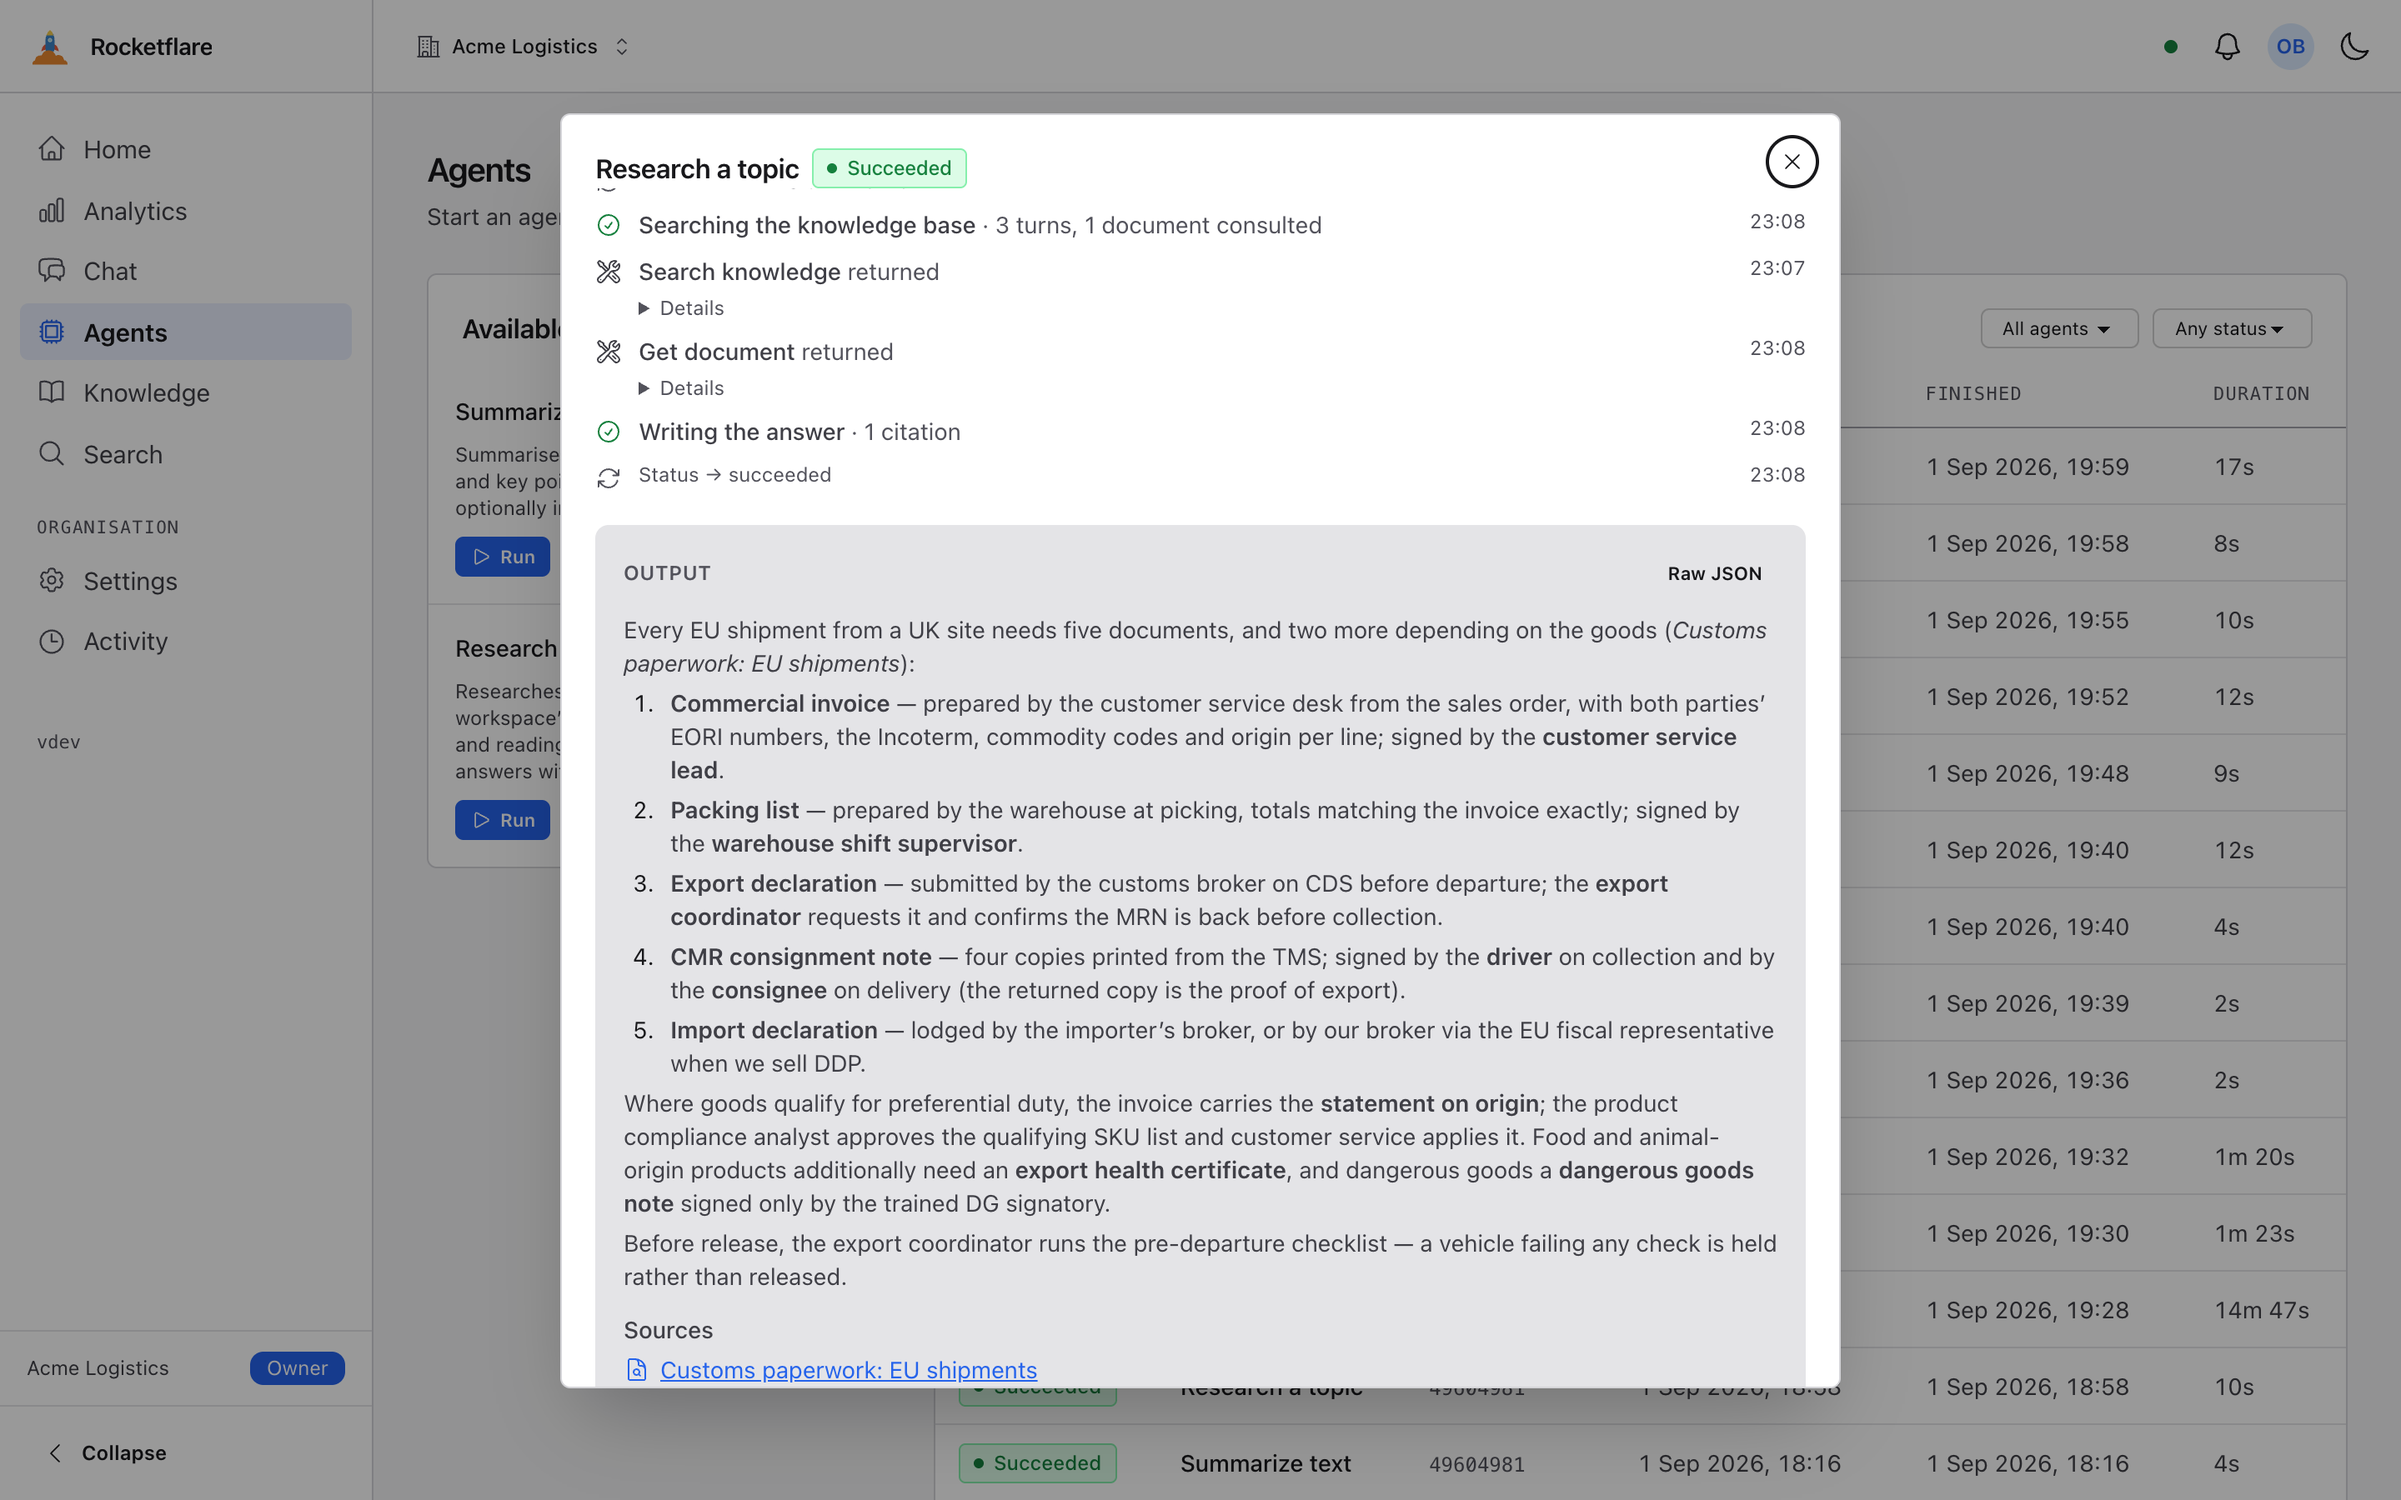
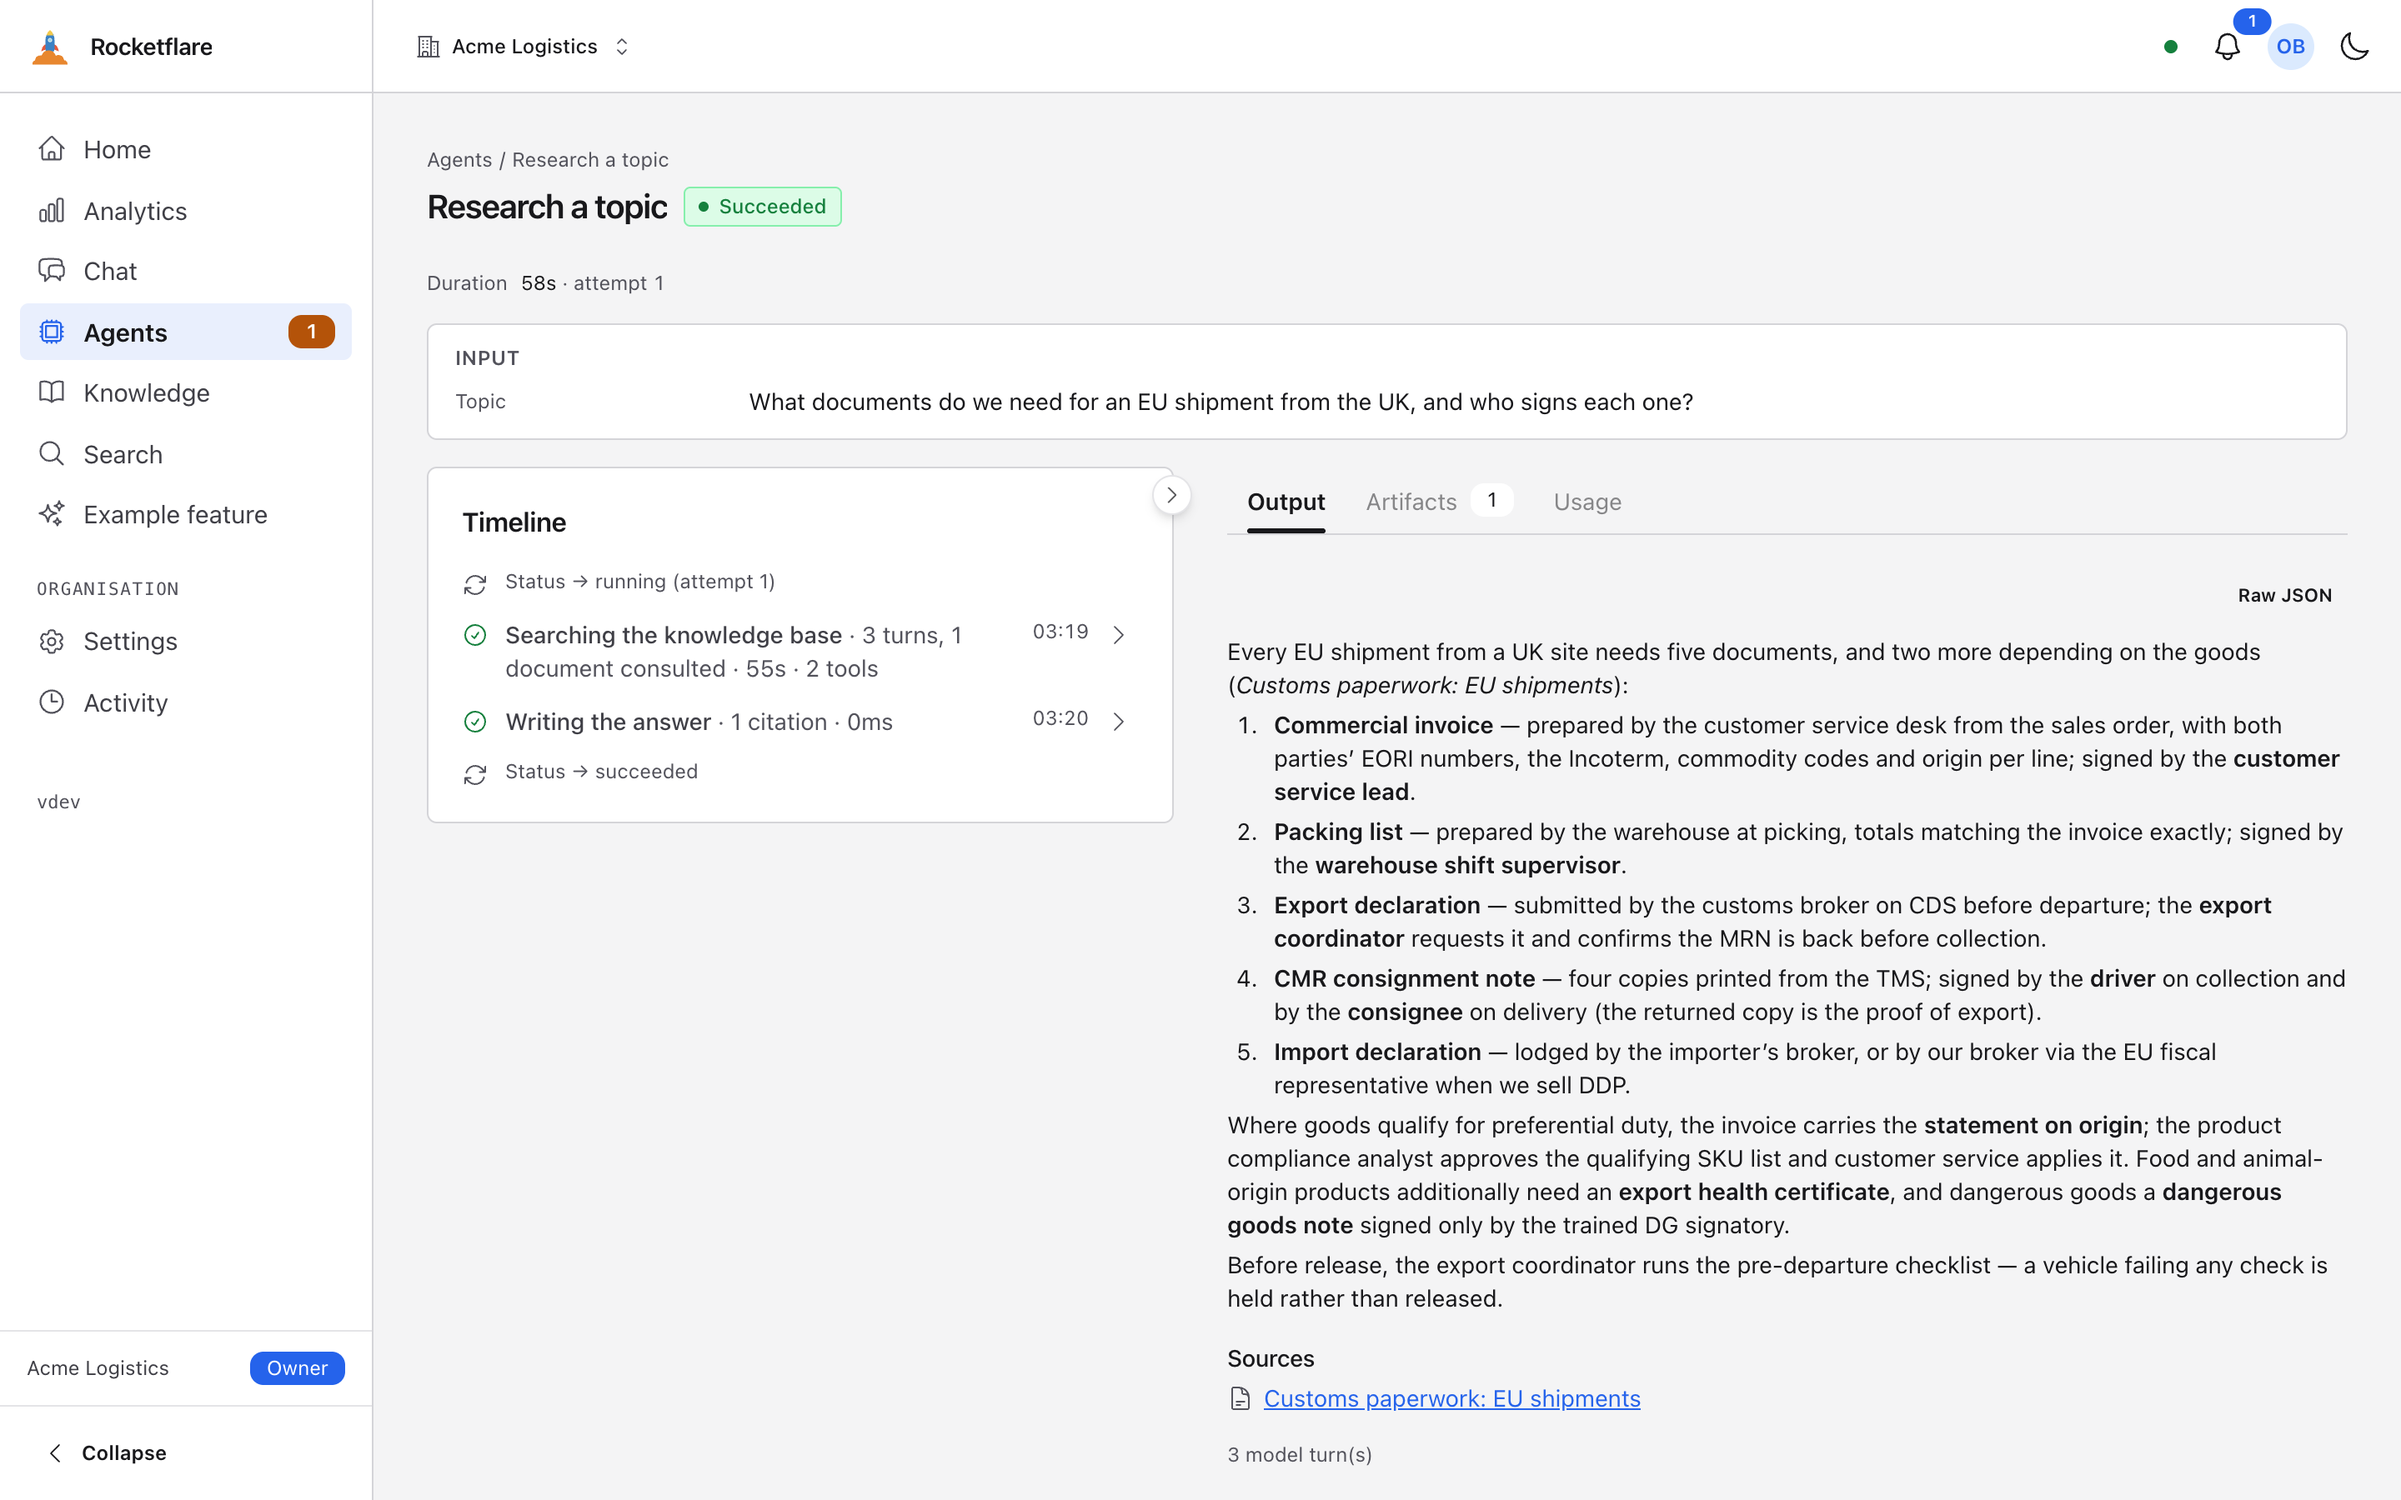
Retake the agent frames, and show a run that stops to ask
0.4.0 deleted the run drawer — a run is its own page now — so both agent
screenshots showed a UI that no longer exists, and `agents-run`'s alt text
described "a drawer over the runs list" to anyone reading with a screen reader.

Retaken on the new page, plus a third frame the kit could not produce until
this release: a run parked on "Index this summary?", the decision above the
timeline, the Agents nav carrying a badge of one. That becomes stop 8, between
Agents and Knowledge, so the agent story deepens before the tour moves on.

The #agents copy enumerated "queued, running, done". There is a fourth state now.

diff --git a/src/assets/screens/MANIFEST.md b/src/assets/screens/MANIFEST.md
@@ -3,6 +3,7 @@
 - Kit commit: `39790e4` (`git -C <kit> rev-parse --short HEAD` at capture time; working tree carried uncommitted doc/rules edits)
 - `groups` was added in a later pass: kit commit `3fa71eb` (clean tree), captured 2026-09-14, same stack and same signed-in account. The viewport is set with `emulate --viewport 1440x900x2` — `resize_page` alone leaves the device pixel ratio at 1 and produces a 1440×900 file rather than 2880×1800
 - `feature-flags` and `admin-tenants` were added in a later pass again: kit commit `cffb14a` (clean tree), captured 2026-09-15, same stack, signed in as the **global admin** (`/login?as=admin@rocketflare.local`) rather than Olivia Bennett — both are `/admin` screens. That account holds a `support` membership in Acme Logistics from an earlier dev session, which is why the sidebar is full and the footer carries a Support badge; signed in with no membership at all the nav is only Home + Admin and the frames read as empty
+- `agents-run`, `agents-research` and the new `agents-approval` were retaken in a later pass again: kit commit `d9e4937` (release 0.4.0, clean tree), captured 2026-09-16, same stack and same signed-in account. **0.4.0 deleted the run drawer** — a run is now its own page at `/agents/runs/:id`, so the two older frames showed a UI that no longer exists. The runs list no longer sits behind them, which also retires known-noise 2 below for these frames
 - Captured: 2026-09-02, against the kit's local dev stack (Vite http://localhost:3000, wrangler http://localhost:3001), read-only
 - Signed in as Olivia Bennett, owner of "Acme Logistics" (`/login?as=owner@example.test`, dev-only auto login)
 - Files: `<stem>.<light|dark>.png`, PNG, viewport only (not full page)
@@ -50,8 +51,9 @@ Wait strategy: poll `document.body.innerText.includes('<text>')` once a second (
 | `groups` | `/settings?tab=groups` | Settings → Groups with the Finance **Members dialog open** (click the first `Members` button): group types Department (3) and Team (0) behind the overlay, dialog showing 3 people not in the group and the 5 in it | 1440×900 @2 | tour `#groups` |
 | `settings-ai` | `/settings?tab=ai` | Readiness: Chat = Cloudflare Workers AI · llama-3.3-70b-instruct-fp8-fast · platform default (Ready); Embeddings = Workers AI · bge-m3 (Ready); no tenant providers | 1440×900 @2 | tour `#ai-settings` |
 | `chat` | `/chat/eb7c618a-…` ("Late deliveries on the Rotterdam lane") | 3 conversations in the list, thread open, scrolled to the last two turns with token counts | 1440×900 @2 | tour `#chat` |
-| `agents-run` | `/agents/runs/50e1bef0-…` | Summarize text run (29 Aug, Succeeded) drawer over the runs list; timeline with the "Submit summary" Details expanded; output + key points | 1440×900 @2 | tour `#agents` |
-| `agents-research` | `/agents/runs/c9672156-…` | Research a topic run (30 Aug, Succeeded); drawer scrolled so the Markdown answer and the "Sources → Customs paperwork: EU shipments" citation are visible | 1440×900 @2 | tour `#research`, who-is-it-for |
+| `agents-run` | `/agents/runs/50e1bef0-…` | Summarize text run (29 Aug, Succeeded) on its own page: input block, timeline (input check, summarising), output + key points in the Output tab, Artifacts 1. Output-major split — the run is settled | 1440×900 @2 | tour `#agents`, landing |
+| `agents-research` | `/agents/runs/c9672156-…` | Research a topic run (30 Aug, Succeeded) on its own page; the Markdown answer with the "Sources → Customs paperwork: EU shipments" citation rendered as a one-line document link | 1440×900 @2 | tour `#research`, who-is-it-for |
+| `agents-approval` | `/agents/runs/d6565412-…` | Summarize text **Awaiting input**: the action panel above the timeline asks "Index this summary?" (Index it / Cancel the run, "expires in 7 days"), the timeline ends on "Asked for a decision", the Output tab reads "No answer yet" and the **Agents nav item carries a badge of 1**. Timeline-major split — the run is active | 1440×900 @2 | tour `#approval` |
 | `documents` | `/documents` | Knowledge table: 6 documents, "Returns policy" shown as Indexing, download icon on the uploaded Markdown file; Paste text form below | 1440×900 @2 | tour `#knowledge` |
 | `search` | `/search` | query "customs paperwork EU shipments" typed and run (the page does not read `?q=`); hit #1 = Customs paperwork: EU shipments with dense/lexical rank badges | 1440×900 @2 | tour `#search` |
 | `analytics` | `/analytics/1b2364b4-…` (Organisation Overview, default template) | KPI strip (Members 8 / Owners 1 / Admins 2 / Active users 2), Sign-ups over time line, Members by role proportion bar, Daily activity below the fold | 1440×900 @2 | tour `#analytics`, who-is-it-for |
@@ -81,3 +83,13 @@ Every stop with a frame now has one; the tour's CLI stop is text only by choice 
 12. The `DEV` environment badge was hidden in every frame after `login` by the hide-chrome step (see above).
 13. **`groups`: two rows behind the dialog are not seed data** — a `Sales` group (1 person) and an empty `Team` group type, both created by hand in dev. The demo seed makes one type, `Department`, with `Finance` and `Operations` only. They sit behind the dimmed overlay in the captured frame and read as ordinary data; delete them before any frame that shows the Groups page *without* the dialog open.
 14. **`feature-flags`: both per-organisation overrides are hand-made dev data**, not seed data — the demo seed ships `example-feature` with no overrides. They were created through the admin UI to show the panel doing the thing it exists for (one organisation forced on, one forced off). Clear them before any frame that is meant to show the default state.
+
+15. **`agents-approval` is a run created for the frame**, not seed data: `summarize-text` with
+    `index: true` over a Q3 carrier-onboarding review written to match the Acme Logistics workspace.
+    It is **left parked on purpose** — answering it settles the run and the frame cannot be retaken
+    from it. It also holds the exclusive slot for `summarize-text`, so cancel it before starting
+    another run of that agent. The demo seed ships no parked run; seeding one would be the way to
+    make this frame reproducible without a manual step.
+16. `agents-approval`'s timeline renders the raw status string **`awaiting_input`** in its last row,
+    where the badge above says "Awaiting input". Cosmetic, visible in a marketing frame, and a kit
+    fix rather than a capture one.
